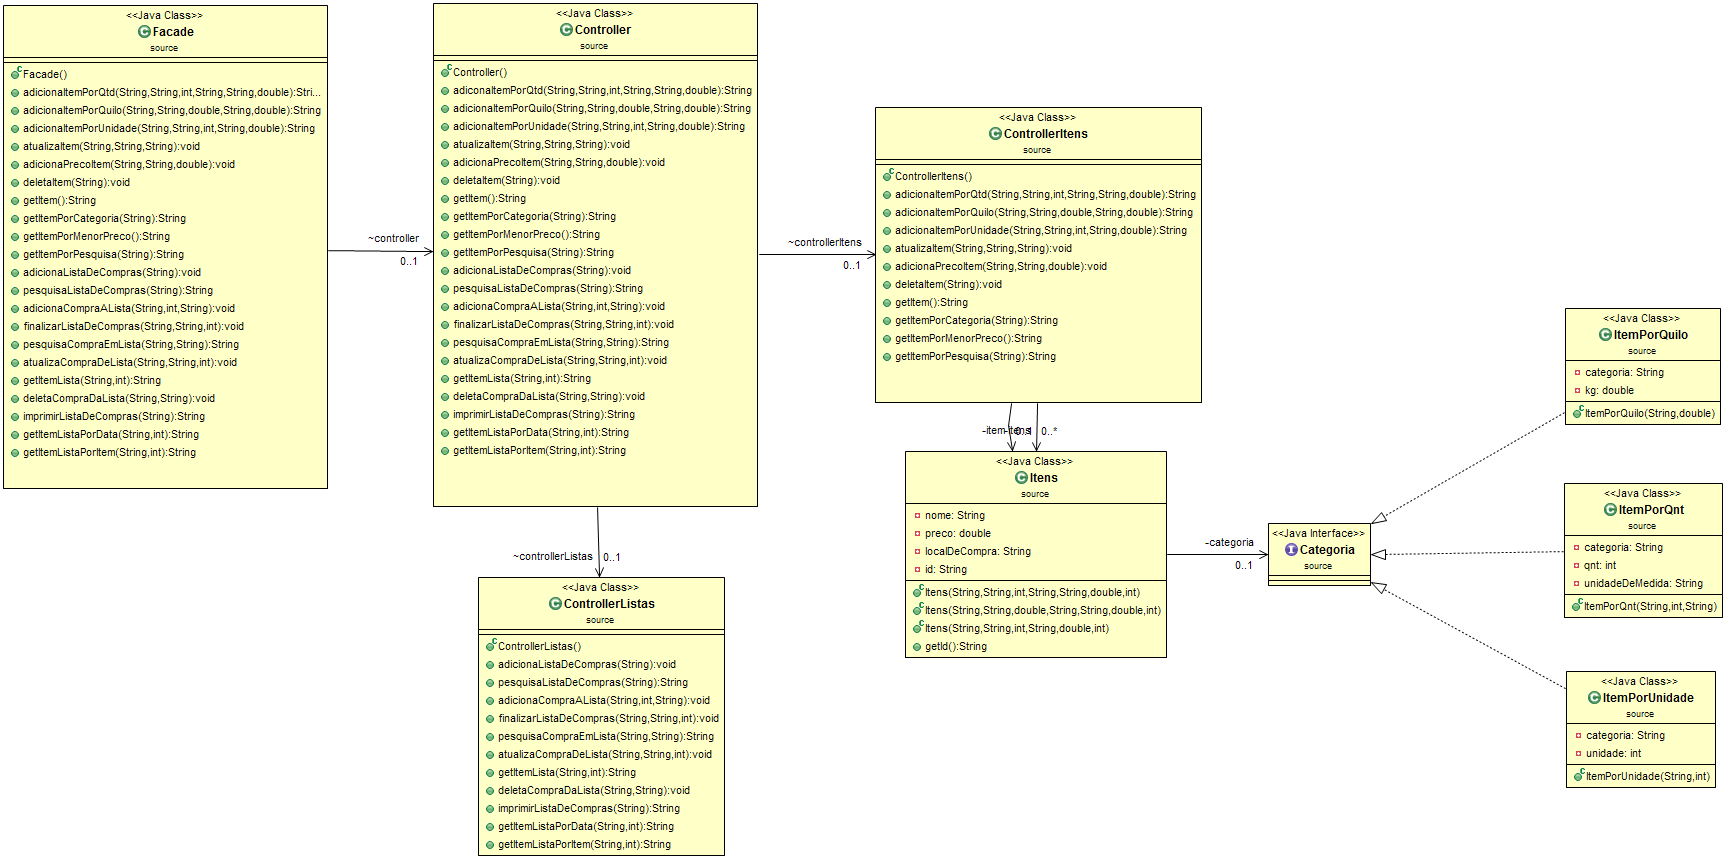
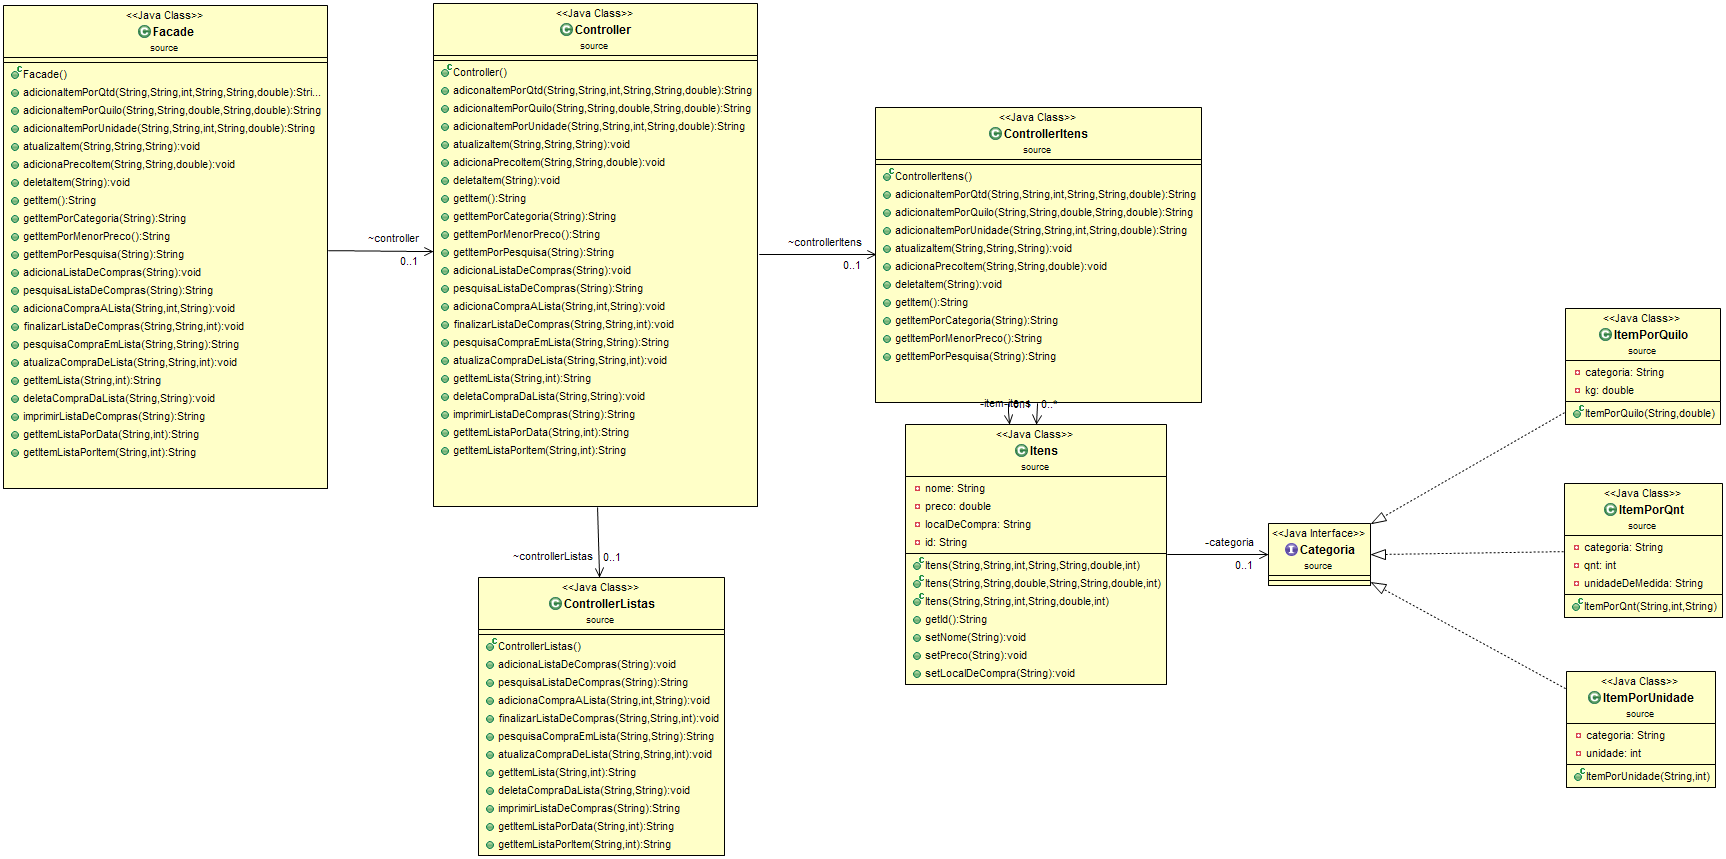
Alteração na Classe ControllerItens

Changed region(s): [[0.522, 0.454, 0.6756, 0.8172]]

diff --git a/src/source/ControllerItensTest.java b/src/source/ControllerItensTest.java
@@ -1,0 +1,33 @@
+package source;
+
+import static org.junit.Assert.*;
+
+import org.junit.Test;
+
+public class ControllerItensTest {
+	
+	
+
+	@Test
+	public void testControllerItens() {
+		fail("Not yet implemented");
+	}
+
+	@Test
+	public void testAdicionaItemPorQtd() {
+		ControllerItens controller = new ControllerItens();
+		assertEquals(controller.adicionaItemPorQtd("feijao", "alimentos", 3, "sacos", "Feirao", 3.44), "id1");
+		
+	}
+
+	@Test
+	public void testAdicionaItemPorQuilo() {
+		fail("Not yet implemented");
+	}
+
+	@Test
+	public void testAdicionaItemPorUnidade() {
+		fail("Not yet implemented");
+	}
+
+}

diff --git a/src/source/ControllerItens.java b/src/source/ControllerItens.java
@@ -33,6 +33,13 @@ public class ControllerItens {
 	}
 
 	public void atualizaItem(String id, String atributo, String novoValor) {
+		if(atributo.equals("nome")) {
+			itens.get(id).setNome(novoValor);
+		} else if(atributo.equals("preco")) {
+			itens.get(id).setPreco(novoValor);
+		} else if(atributo.equals("localDeCompra")) {
+			itens.get(id).setLocalDeCompra(novoValor);
+		}
 		
 	}
 

diff --git a/src/source/Itens.java b/src/source/Itens.java
@@ -36,6 +36,19 @@ public class Itens {
 	public String getId() {
 		return this.id;
 	}
+
+	public void setNome(String novoValor) {
+		this.nome = novoValor;		
+	}
+
+	public void setPreco(String atributo) {
+		double novoPreco = Double.parseDouble(atributo);
+		this.preco = novoPreco;	
+	}
+
+	public void setLocalDeCompra(String novoValor) {
+		this.localDeCompra = novoValor;
+	}
 	
 	
 
